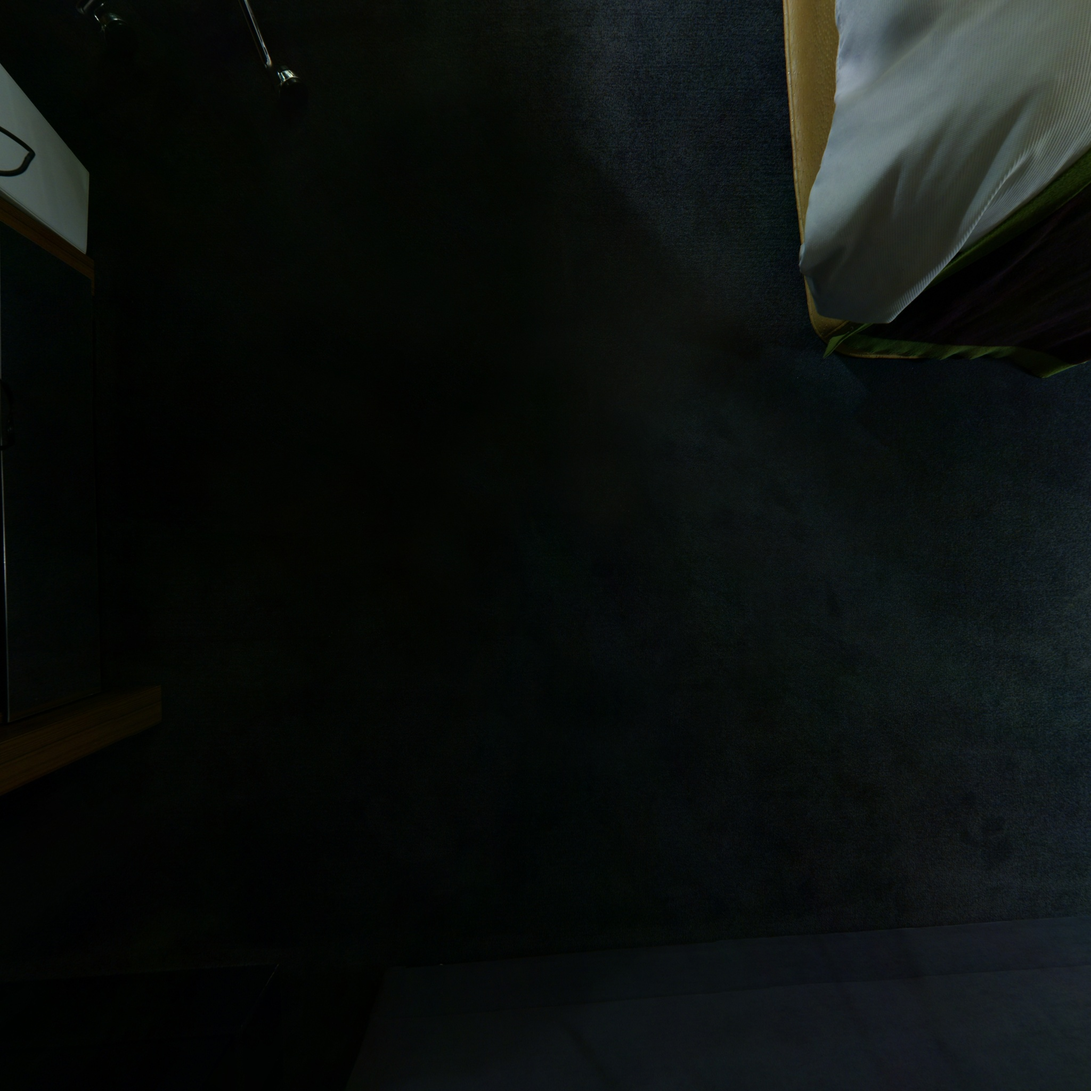
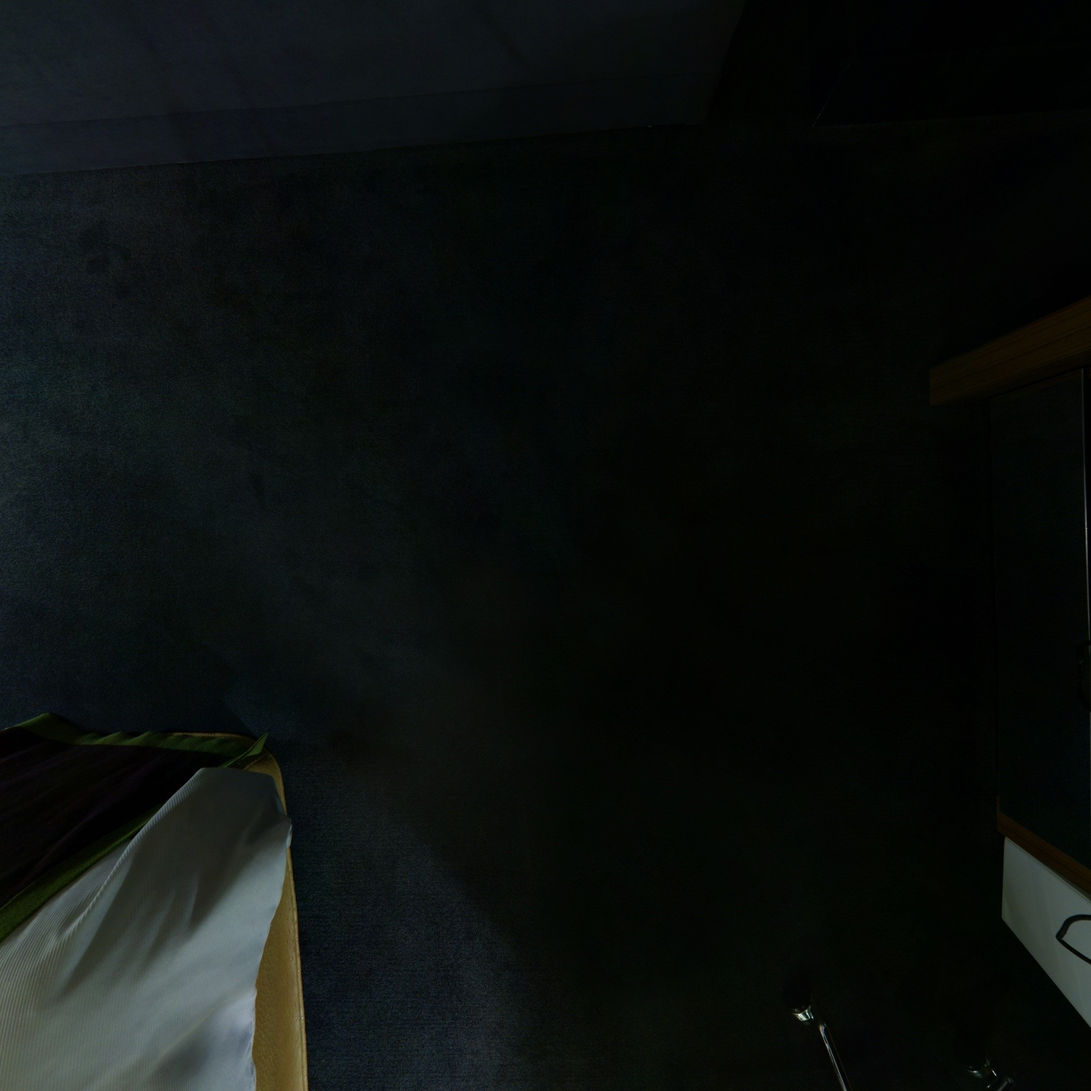
Skybox loader button functionality

diff --git a/js/main.js b/js/main.js
@@ -3,18 +3,19 @@ let aspect = window.innerWidth / window.innerHeight;
 let spotLight, controls;
 let plane;
 let texture;
-let skyboxGeo, skyboxMaterials, skybox, skyboxGeo2, skyboxMaterials2, skybox2;;
+let skyboxGeo, skyboxMaterials1, skyboxMaterials2, skybox, skyboxGeo2, skybox2;
 const gltfLoader = new THREE.GLTFLoader();
 const textureLoader = new THREE.TextureLoader();
+
 
 
 
 const createPlane = () => {
 
     let planeGeometry = new THREE.BoxBufferGeometry(100, 1, 100);
-    // let planeMaterial = new THREE.ShadowMaterial();
+   
     let planeMaterial = new THREE.ShadowMaterial({ side: THREE.DoubleSide });
-    // planeMaterial.opacity = 0.2;
+     planeMaterial.opacity = 0.7;
     plane = new THREE.Mesh(planeGeometry, planeMaterial);
     plane.receiveShadow = true;
     plane.castShadow = false;
@@ -26,11 +27,11 @@ const createPlane = () => {
 }
 
 
-const createSkyBox1 = () => {
+const createSkyBox = () => {
 
     skyboxGeo = new THREE.BoxBufferGeometry(1000, 1000, 1000);
 
-    skyboxMaterials = [
+    skyboxMaterials1 = [
         //Right
         new THREE.MeshBasicMaterial({ map: new THREE.TextureLoader().load('skyBox/box1/3.jpg'), side: THREE.BackSide }),
         //Left 
@@ -45,19 +46,9 @@ const createSkyBox1 = () => {
         new THREE.MeshBasicMaterial({ map: new THREE.TextureLoader().load('skyBox/box1/2.jpg'), side: THREE.BackSide }),
     ];
 
-    skybox = new THREE.Mesh(skyboxGeo, skyboxMaterials);
-    scene.add(skybox);
+    skyboxMaterials2 = [
 
-}
-
-
-const createSkyBox2 = () => {
-
-    skyboxGeo = new THREE.BoxBufferGeometry(1000, 1000, 1000);
-
-    skyboxMaterials = [
-
-        new THREE.MeshBasicMaterial({ map: new THREE.TextureLoader().load('skyBox/box2//negx.jpg'), side: THREE.BackSide }),
+        new THREE.MeshBasicMaterial({ map: new THREE.TextureLoader().load('skyBox/box2/negx.jpg'), side: THREE.BackSide }),
 
         new THREE.MeshBasicMaterial({ map: new THREE.TextureLoader().load('skyBox/box2/posx.jpg'), side: THREE.BackSide }),
 
@@ -68,7 +59,19 @@ const createSkyBox2 = () => {
         new THREE.MeshBasicMaterial({ map: new THREE.TextureLoader().load('skyBox/box2/negz.jpg'), side: THREE.BackSide }),
 
         new THREE.MeshBasicMaterial({ map: new THREE.TextureLoader().load('skyBox/box2/posz.jpg'), side: THREE.BackSide }),
-    ]
+    ];
+
+    skybox = new THREE.Mesh(skyboxGeo, skyboxMaterials1);
+    scene.add(skybox);
+
+}
+
+/* 
+const createSkyBox2 = () => {
+
+    skyboxGeo = new THREE.BoxBufferGeometry(1000, 1000, 1000);
+
+   
 
     skybox = new THREE.Mesh(skyboxGeo, skyboxMaterials);
     scene.add(skybox);
@@ -76,7 +79,7 @@ const createSkyBox2 = () => {
 
 
 
-}
+} */
 
 
 const createCone = () => {
@@ -103,6 +106,7 @@ const createClay = () => {
         model.scale.setScalar(3);
         model.castShadow = true;
         model.receiveShadow = true;
+        model.visible = false;
         scene.add(model);
 
         model.position.y -= 8;
@@ -150,11 +154,11 @@ const init = () => {
     // scene.add(lightHelper); 
 
     createPlane();
-     createSkyBox1();
+     createSkyBox();
    //  createSkyBox2();
 
     createCone();
-    //  createClay();
+      createClay();
 
 
 
@@ -174,6 +178,8 @@ const init = () => {
     controls.enableRotate = true;
     controls.minDistance = 80;
     controls.maxDistance = 170;
+    controls.maxPolarAngle = 1.5;
+    
     controls.update();
 }
 
@@ -197,3 +203,14 @@ const onWindowResize = () => {
 }
 
 window.addEventListener('resize', onWindowResize, false);
+
+let skyBox2 = document.getElementById('skybox2');
+skyBox2.addEventListener('click', () => {
+    skybox.material = skyboxMaterials2;
+}
+);
+
+let skyBox1 = document.getElementById('skybox1');
+skyBox1.addEventListener('click', () => {
+    skybox.material = skyboxMaterials1;
+})

diff --git a/index.html b/index.html
@@ -9,18 +9,18 @@
 <body>
 
     <div class="modify">
-        <button class="button-skybox1">Skybox 1</button>
-        <button class="button-skybox2">Skybox 2</button>
-        <button class="button--loadcone">Load Cone</button>
-        <button class="button--loadpot">Load Pot</button>
-        <p class="element element--cone">CONE</p>
+        <button class="button-skybox1" id="skybox1">Skybox 1</button>
+        <button class="button-skybox2" id="skybox2">Skybox 2</button>
+        <button class="button--loadcone" id="loadcone">Load Cone</button>
+        <button class="button--loadpot" id="loadpot">Load Pot</button>
+        <p class="element element--cone" >CONE</p>
         <p class="element element--pot">POT</p>
-        <button class="button--texture1cone">Texture 1</button>
-        <button class="button--texture2cone">Texture 2</button>
-        <button class="button--texture3cone">Texture 3</button>
-        <button class="button--texture1pot">Texture 1</button>
-        <button class="button--texture2pot">Texture 2</button>
-        <button class="button--texture3pot">Texture 3</button>
+        <button class="button--texture1cone" id="texture1cone">Texture 1</button>
+        <button class="button--texture2cone" id="texture2cone">Texture 2</button>
+        <button class="button--texture3cone" id="texture3cone">Texture 3</button>
+        <button class="button--texture1pot" id="texture1pot">Texture 1</button>
+        <button class="button--texture2pot" id="texture2pot">Texture 2</button>
+        <button class="button--texture3pot" id="texture3pot">Texture 3</button>
 
 
 

diff --git a/css/style.css b/css/style.css
@@ -125,6 +125,7 @@ button {
 
 
 
+
 button.skybox1 {
     margin-right: 0.5em;
 }
